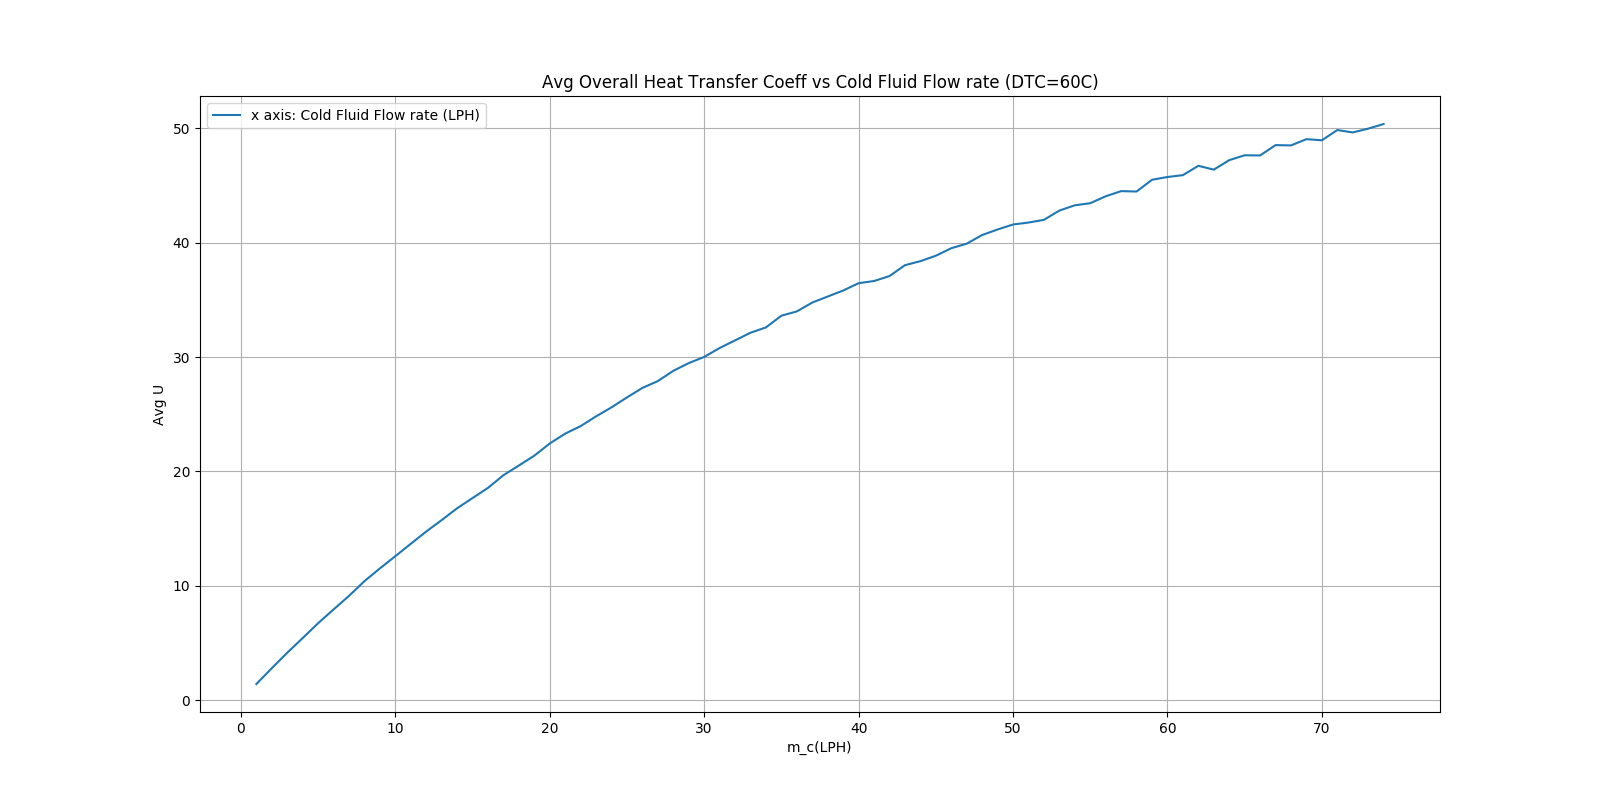
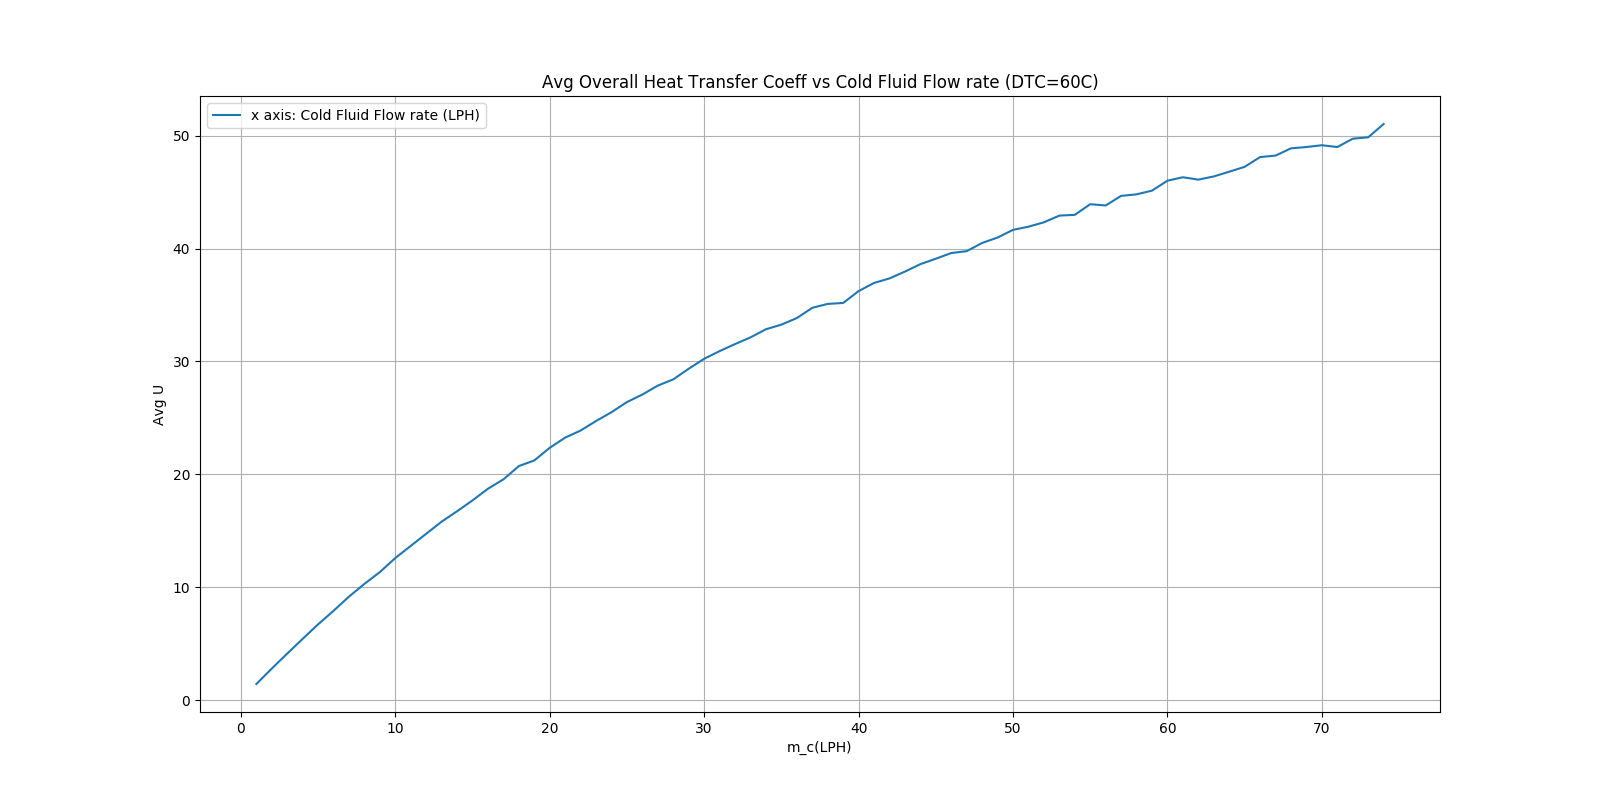
exp3 Centrifugal pump

diff --git a/exp3/main.py b/exp3/main.py
@@ -1,0 +1,91 @@
+#!/usr/bin/env python3
+
+A       = 0.128 # m^2, Area of measuring tank
+rho     = 1000  # kg/m^2, density of fluid
+mtr_eff = 0.8   # motor efficiency assumed
+g       = 9.81  # acc. due to gravity
+h_pg    = 1     # m, height of pressure gauge from vacuum gauge
+P       = 10E-04   # fix later TODO
+
+emc     = 3200
+'''
+Sample Observations
+N    Pd  Ps  R1  R2  t   tp
+1200 0.2 60  0   11  20  32.19
+1200 0.3 80  11  18  20  34.12
+'''
+
+def rise(r1, r2):
+    return [ abs(v1 - v2)/100 for v1,v2 in zip(r1,r2)]
+
+def Ei(tp): # pump input
+    return [ P*(3600/emc)*t for t in tp ]
+
+def Es(tp): # shaft output
+    return [ P*mtr_eff*(3600/emc)*t for t in tp ]
+
+def head(pd, ps):
+    return [10*(vd + vs/760) + h_pg for vd,vs in zip(pd,ps)]
+
+def discharge(r1,r2,t):
+    return [(A*r)/t for r in rise(r1,r2)]
+
+def Eo(pd,ps,r1,r2): #pump output
+    t = 20 # sec
+    Q = discharge(r1,r2,t) 
+    H = head(pd,ps)
+    assert len(Q) == len(H), "Q and H have diff lens"
+    return [ g*q*h for q,h in zip(Q,H)] # rho/1000 = 1
+
+def eta_o(pd,ps,r1,r2,tp): # overall efficiency
+    return [(eo/ei)*100 for eo,ei in zip(Ei(tp), Eo(pd,ps,r1,r2))]
+
+def eta_p(pd,ps,r1,r2,tp): # pump efficiency
+    return [(eo/es)*100 for eo,es in zip(Eo(pd,ps,r1,r2), Es(tp))]
+
+
+def show_plot(x, y, xlabel='Discharge Q (x10e-4 m^3/s)', 
+        ylabel='Pump efficiency', 
+        title='Discharge Q vs Pump efficiency',
+        savefig='results/pumpeffvsQ.png'):
+    import  matplotlib.pyplot as plt
+    plt.plot(x, y)
+    plt.xlabel(xlabel)
+    plt.ylabel(ylabel)
+    plt.title(title)
+    plt.savefig(savefig)
+    plt.show()
+
+def main():
+    pd = [0.2,0.3,0.4]
+    ps = [60,80,100]
+    r1 = [0,11,18]
+    r2 = [11,18,23]
+    tp = [32.19,34.12, 35.10]
+    t  = 20
+    h = head(pd,ps)
+    eff = eta_p(pd,ps,r1,r2,tp)
+    dis = discharge(r1,r2,t)
+    dis = [d*10000 for d in dis]
+    print(eff)
+    print(dis)
+    show_plot(dis, eff)
+    print('---')
+    print(h)
+    print(dis)
+    show_plot(dis, h, xlabel='Discharge Q (x10e-4 m^3/s)',
+            ylabel='Head (m)',
+            title='Discharge Q vs Head',
+            savefig='results/headvsQ.png')
+    
+
+if __name__ == "__main__":
+    main()
+
+
+
+
+
+
+
+
